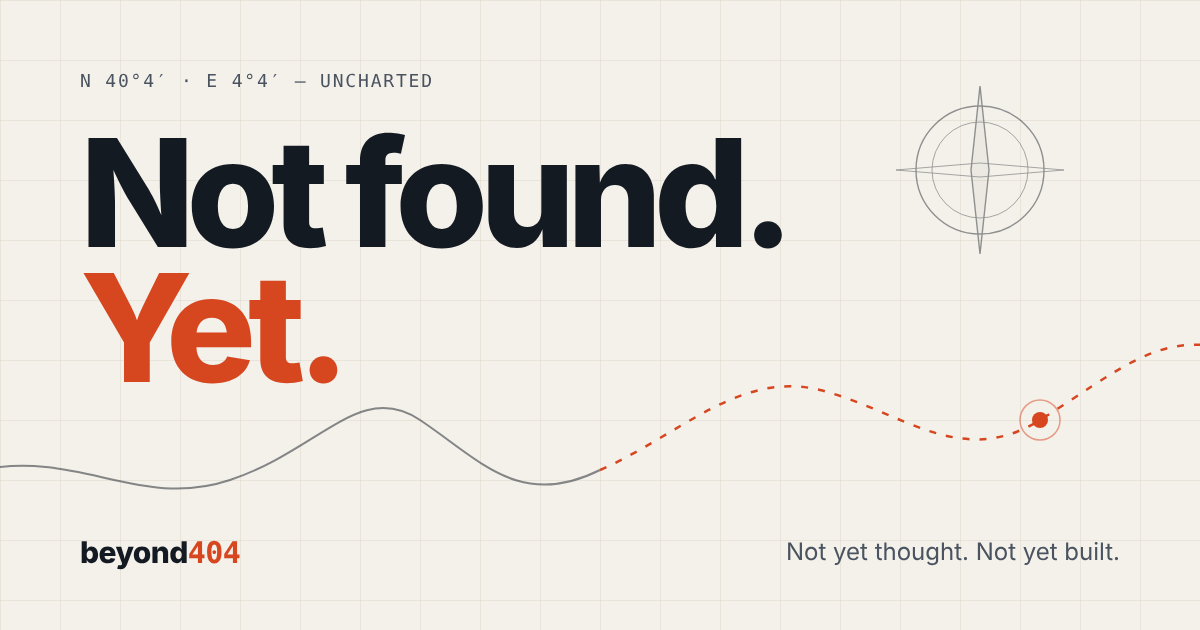
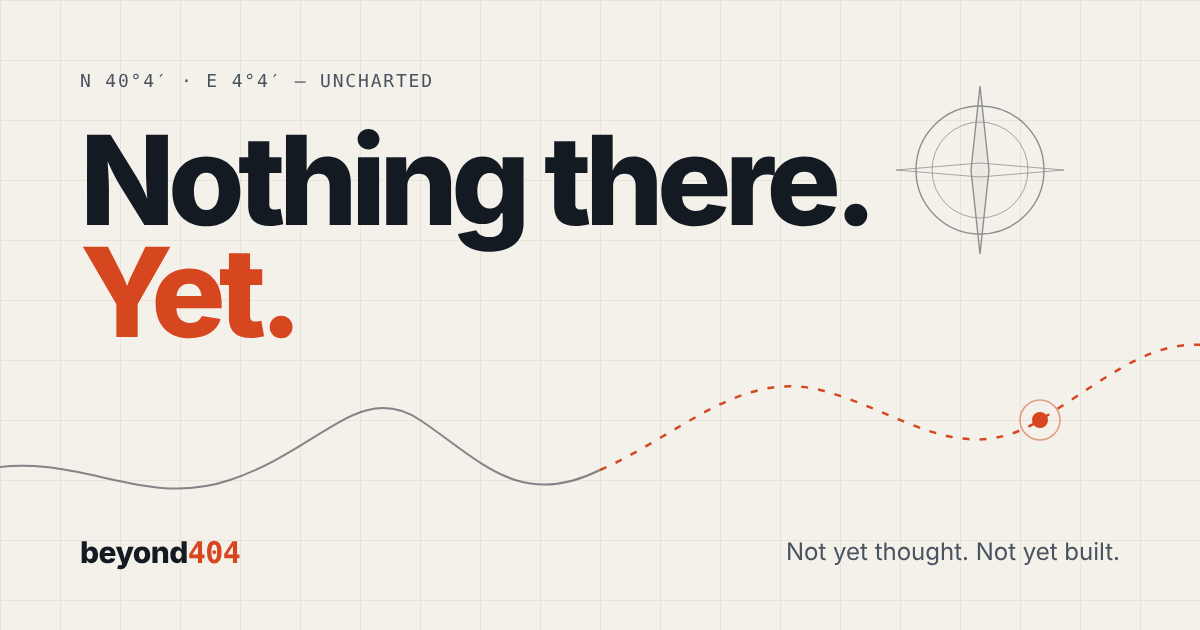
beyond404: Claim 'Nothing there. Yet.' statt 'Not found. Yet.'
Hero, Titel, Meta-Tags, 404-Seite und og:image angepasst. Claim etwas
kleiner gesetzt und Kompass im Hero nach rechts oben verschoben, damit
der längere Text frei steht.

Claude-Session: https://claude.ai/code/session_016HV1nV9ZEBRLZX1S5442NC

Changed region(s): [[0.0617, 0.2111, 0.74, 0.6333]]

diff --git a/beyond404/site/index.html b/beyond404/site/index.html
@@ -3,21 +3,21 @@
 <head>
   <meta charset="utf-8">
   <meta name="viewport" content="width=device-width, initial-scale=1">
-  <title>beyond404 — Not found. Yet.</title>
+  <title>beyond404 — Nothing there. Yet.</title>
   <meta name="description" content="beyond404 works where things are not yet thought and not yet built. Strategy, prototypes, AI agents and products that move the standard.">
   <meta name="color-scheme" content="light dark">
   <meta name="theme-color" content="#f4f1ea" media="(prefers-color-scheme: light)">
   <meta name="theme-color" content="#11161d" media="(prefers-color-scheme: dark)">
   <link rel="canonical" href="https://beyond404.io/">
   <link rel="icon" href="/favicon.svg" type="image/svg+xml">
-  <meta property="og:title" content="beyond404 — Not found. Yet.">
+  <meta property="og:title" content="beyond404 — Nothing there. Yet.">
   <meta property="og:description" content="Not yet thought. Not yet built. That's where we feel at home.">
   <meta property="og:url" content="https://beyond404.io/">
   <meta property="og:type" content="website">
   <meta property="og:image" content="https://beyond404.io/og-image.png">
   <meta property="og:image:width" content="1200">
   <meta property="og:image:height" content="630">
-  <meta property="og:image:alt" content="beyond404 — Not found. Yet.">
+  <meta property="og:image:alt" content="beyond404 — Nothing there. Yet.">
   <meta name="twitter:card" content="summary_large_image">
   <link rel="stylesheet" href="/styles.css">
 </head>
@@ -55,14 +55,14 @@
         <path class="chart__line chart__line--open fade" d="M600 520 C 680 485, 740 420, 820 440 S 960 520, 1040 470 S 1160 380, 1230 400"/>
         <!-- bearing lines from compass -->
         <g class="chart__rhumb">
-          <line x1="930" y1="210" x2="200" y2="-40"/>
-          <line x1="930" y1="210" x2="1260" y2="-60"/>
-          <line x1="930" y1="210" x2="300" y2="760"/>
-          <line x1="930" y1="210" x2="1260" y2="640"/>
-          <line x1="930" y1="210" x2="-40" y2="260"/>
+          <line x1="1090" y1="140" x2="200" y2="-40"/>
+          <line x1="1090" y1="140" x2="1260" y2="-60"/>
+          <line x1="1090" y1="140" x2="300" y2="760"/>
+          <line x1="1090" y1="140" x2="1260" y2="640"/>
+          <line x1="1090" y1="140" x2="-40" y2="260"/>
         </g>
         <!-- compass mark -->
-        <g class="chart__compass" transform="translate(930 210)">
+        <g class="chart__compass" transform="translate(1090 140)">
           <circle r="64" fill="none"/>
           <circle r="48" fill="none" class="thin"/>
           <path d="M0 -84 L9 0 L0 84 L-9 0 Z"/>
@@ -78,7 +78,7 @@
 
       <div class="wrap hero__inner">
         <p class="coord" aria-hidden="true">N 40°4′ · E 4°4′ — uncharted</p>
-        <h1 id="hero-title" class="claim">Not found.<br><span>Yet.</span></h1>
+        <h1 id="hero-title" class="claim">Nothing there.<br><span>Yet.</span></h1>
         <p class="stance">Not yet thought. Not yet built.<br>That's where we feel at home.</p>
         <p class="hero__links">
           <a class="btn" href="#contact">Bring us your 404</a>

diff --git a/beyond404/og/og-image.html b/beyond404/og/og-image.html
@@ -3,7 +3,7 @@ html,body{margin:0;width:1200px;height:630px;overflow:hidden;background:#f4f1ea;
 svg{position:absolute;inset:0}
 .t{position:absolute;left:80px;top:70px}
 .c{font:500 18px ui-monospace,Menlo,monospace;letter-spacing:.1em;color:#4a5360;text-transform:uppercase}
-h1{font-size:150px;line-height:.9;letter-spacing:-.055em;font-weight:850;margin:34px 0 0}
+h1{font-size:124px;line-height:.9;letter-spacing:-.055em;font-weight:850;margin:34px 0 0}
 h1 span{color:#d6461f}
 .w{position:absolute;left:80px;bottom:60px;font-weight:800;font-size:30px;letter-spacing:-.02em}
 .w span{color:#d6461f;font-family:ui-monospace,Menlo,monospace;font-weight:600}
@@ -17,7 +17,7 @@ h1 span{color:#d6461f}
 <g transform="translate(980 170)" stroke="#141a22" opacity=".45" fill="none" stroke-width="1.4"><circle r="64"/><circle r="48" stroke-width=".8"/><path d="M0 -84 L9 0 L0 84 L-9 0 Z" fill="#141a22" fill-opacity=".08"/><path d="M-84 0 L0 -7 L84 0 L0 7 Z" stroke-width=".8"/></g>
 <circle cx="1040" cy="420" r="8" fill="#d6461f"/><circle cx="1040" cy="420" r="20" fill="none" stroke="#d6461f" stroke-width="1.5" opacity=".5"/>
 </svg>
-<div class="t"><div class="c">N 40°4′ · E 4°4′ — uncharted</div><h1>Not found.<br><span>Yet.</span></h1></div>
+<div class="t"><div class="c">N 40°4′ · E 4°4′ — uncharted</div><h1>Nothing there.<br><span>Yet.</span></h1></div>
 <div class="w">beyond<span>404</span></div>
 <div class="s">Not yet thought. Not yet built.</div>
 </body></html>

diff --git a/beyond404/site/styles.css b/beyond404/site/styles.css
@@ -89,7 +89,7 @@ a:focus-visible, .btn:focus-visible { outline: 3px solid var(--accent); outline-
 .hero__inner { position: relative; padding-top: 4rem; padding-bottom: 5rem; width: 100%; }
 .coord { font: 500 .8rem/1 var(--mono); letter-spacing: .08em; text-transform: uppercase; color: var(--ink-2); margin: 0 0 1.5rem; }
 .claim {
-  font-size: clamp(3.4rem, 13vw, 10.5rem);
+  font-size: clamp(2.8rem, 12vw, 9rem);
   line-height: .9;
   font-weight: 850;
   letter-spacing: -.055em;

diff --git a/beyond404/site/404.html b/beyond404/site/404.html
@@ -3,7 +3,7 @@
 <head>
   <meta charset="utf-8">
   <meta name="viewport" content="width=device-width, initial-scale=1">
-  <title>Not found. Yet. — beyond404</title>
+  <title>Nothing there. Yet. — beyond404</title>
   <meta name="robots" content="noindex">
   <meta name="color-scheme" content="light dark">
   <link rel="icon" href="/favicon.svg" type="image/svg+xml">
